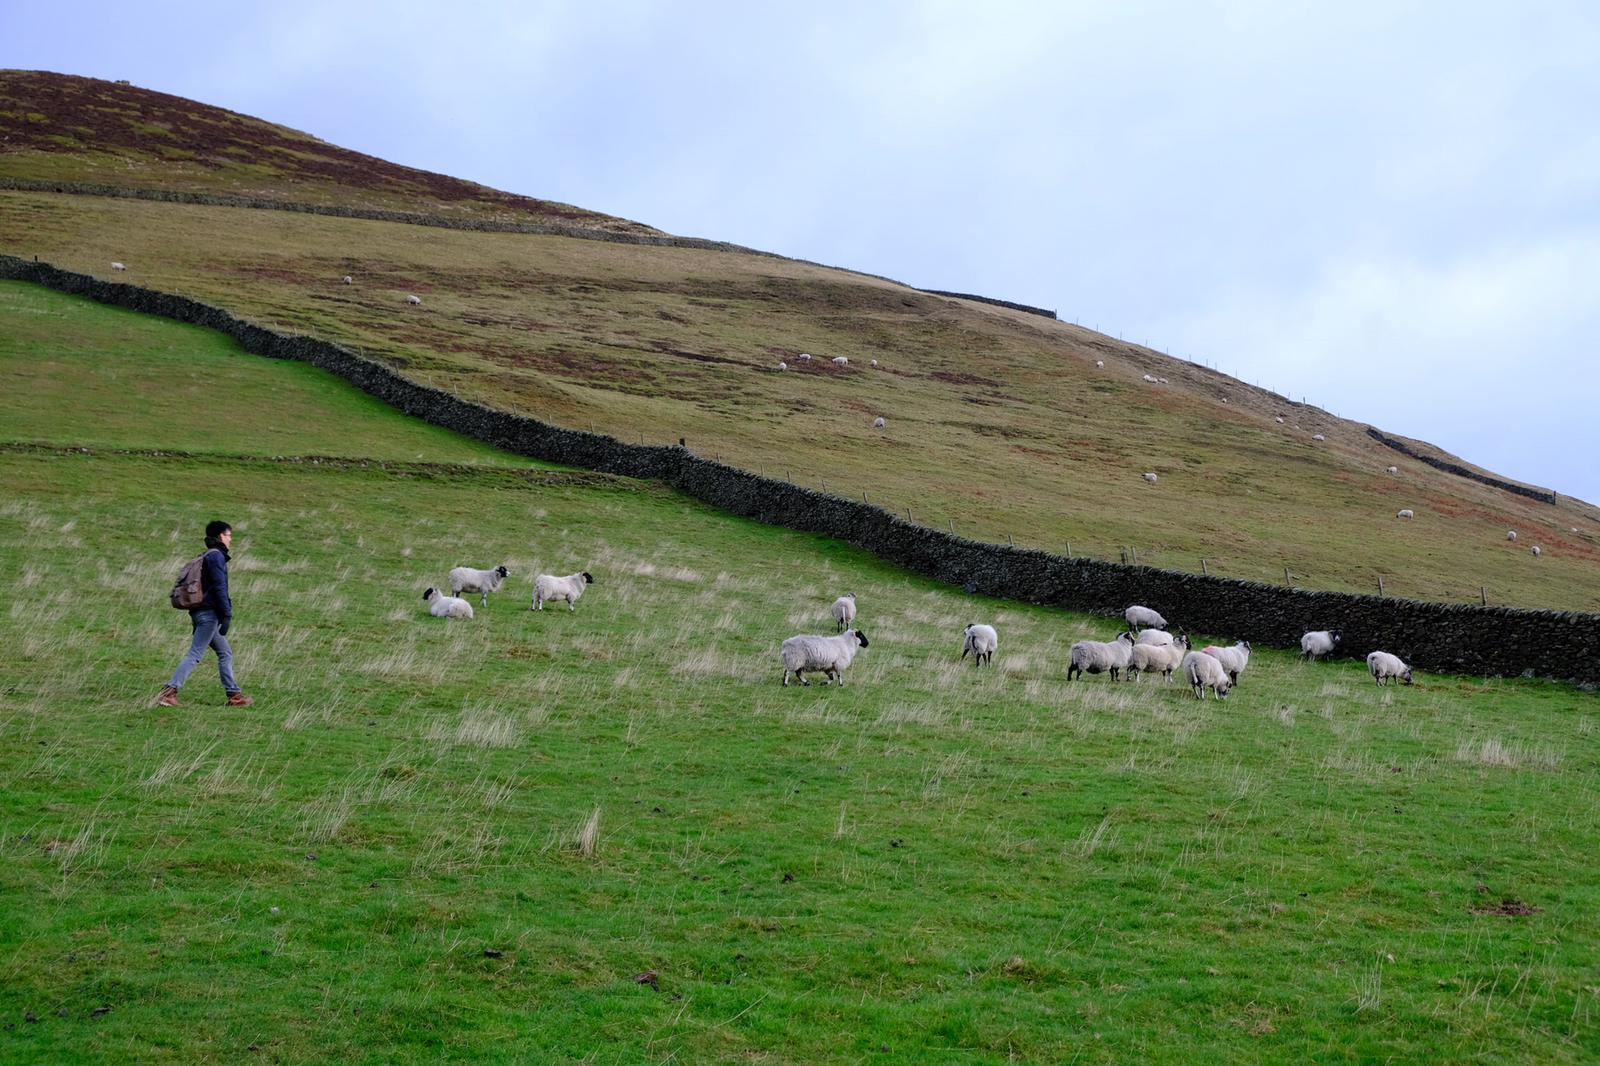
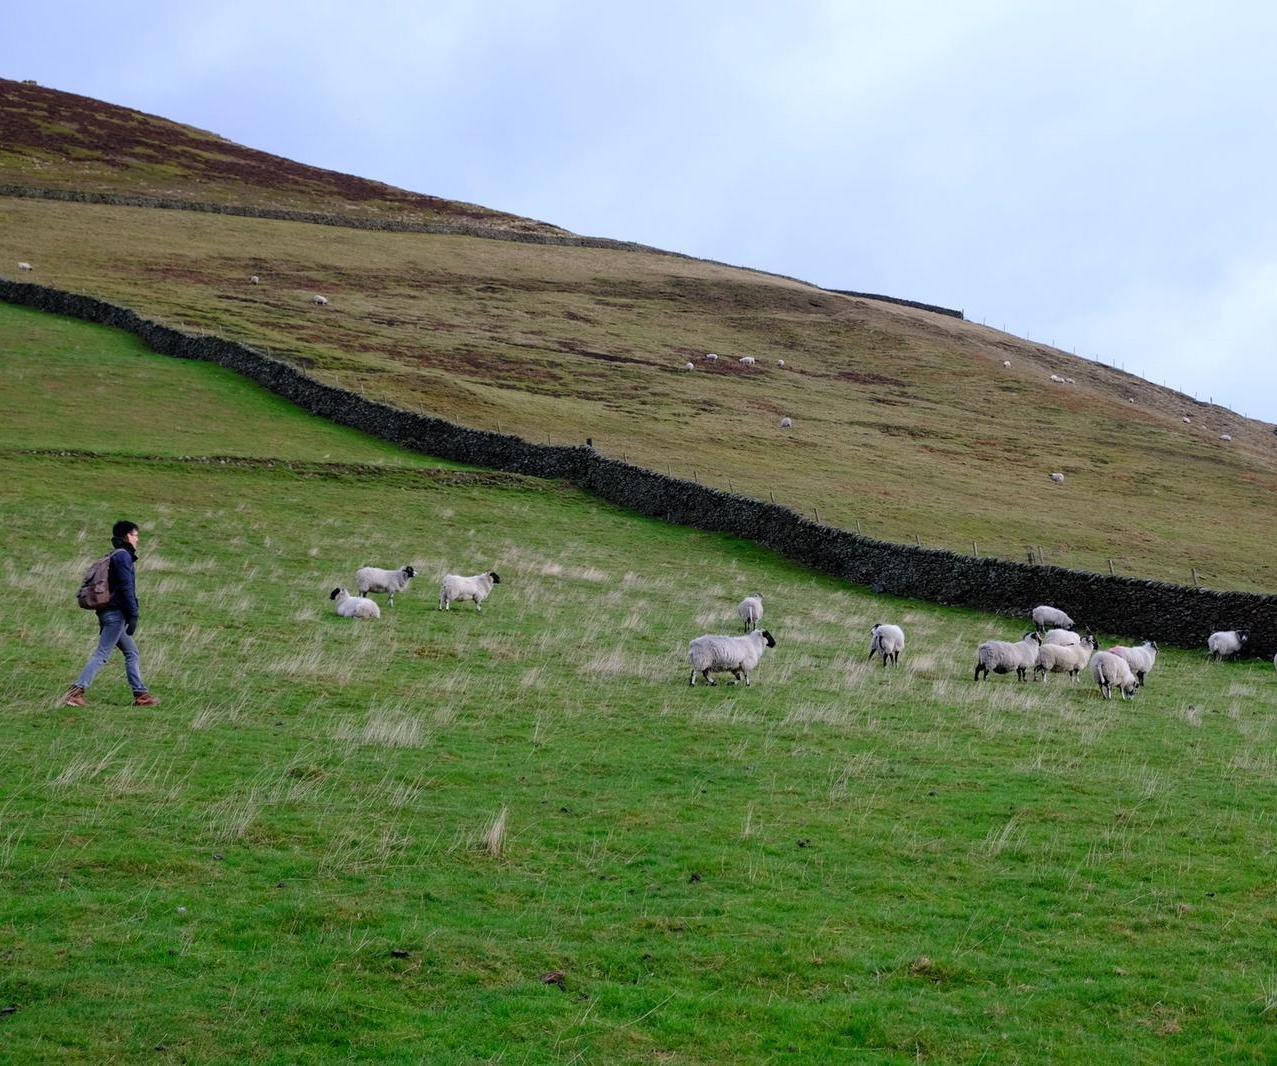
edit featured blog background

diff --git a/index.html b/index.html
@@ -1664,7 +1664,7 @@
   
   
 
-  <section id="featured" class="home-section wg-featured dark  bg-image parallax " style="background-image: linear-gradient(rgba(0, 0, 0, 0.5), rgba(0, 0, 0, 0.5)), url(&#39;https://xp-song.github.io/img/sheep.jpg&#39;);background-size: cover;background-position: center;" >
+  <section id="featured" class="home-section wg-featured dark  bg-image parallax " style="background-image: linear-gradient(rgba(0, 0, 0, 0.5), rgba(0, 0, 0, 0.5)), url(&#39;https://xp-song.github.io/img/sheep.jpg&#39;);background-size: cover;background-position: left;" >
     <div class="container">
       
 

diff --git a/project/kashiwanoha/index.html b/project/kashiwanoha/index.html
@@ -876,7 +876,7 @@
   <a data-fancybox="" href="/img/kashiwanoha_social.jpg" data-caption="Enhance site usage and versatility">
 
 
-  <img src="/img/kashiwanoha_social.jpg" alt="" width="80%" >
+  <img src="/img/kashiwanoha_social.jpg" alt="" width="100%" >
 </a>
 
 
